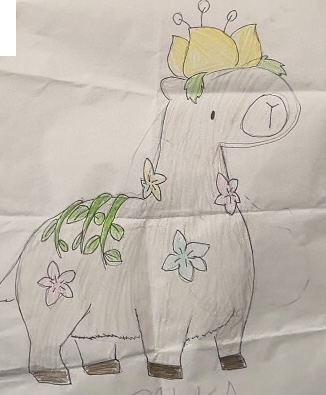
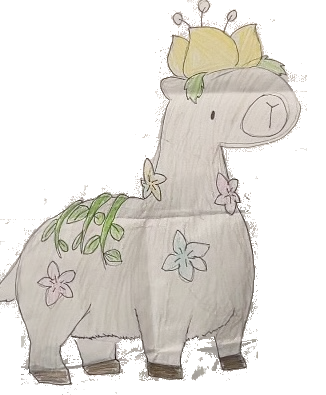
transparent versions of mons

diff --git a/app/Pokeperu/monsters.ts b/app/Pokeperu/monsters.ts
@@ -44,7 +44,7 @@ export const monsters: Monster[] = [
     speed: 100,
     type: ElementType.Poison,
     secondType: ElementType.Ghost,
-    image: '/images/monsters/pkmnsquad1a.jpg',
+    image: '/images/monsters/pkmnsquad1a.png',
     description: 'Buxic is a Poison/Ghost-type. When he walks he leaves poison on the ground. It\'s super toxic. He is not very friendly. He can be very bad tempered.',
     inspiration: 'Bunny', // Added inspiration
     attack1: {
@@ -108,7 +108,7 @@ export const monsters: Monster[] = [
     speed: 0,
     type: ElementType.Ice,
     secondType: ElementType.Dragon,
-    image: '/images/monsters/pkmnsquad2a.jpg',
+    image: '/images/monsters/pkmnsquad2a.png',
     description: 'This pokemon is very difficult to find. This pokemon is calm and its special attack is Ice-Fire.',
     inspiration: 'Condor', // Added inspiration
     attack1: {
@@ -236,7 +236,7 @@ export const monsters: Monster[] = [
     speed: 50,
     type: ElementType.Water,
     secondType: ElementType.Electric,
-    image: '/images/monsters/pkmnsquad4a.jpg',
+    image: '/images/monsters/pkmnsquad4a.png',
     description: 'It has electric spikes with in its shell and on its head. It is a seriously angry pokemon. Be careful.',
     inspiration: 'Turtle', // Added inspiration
     attack1: {
